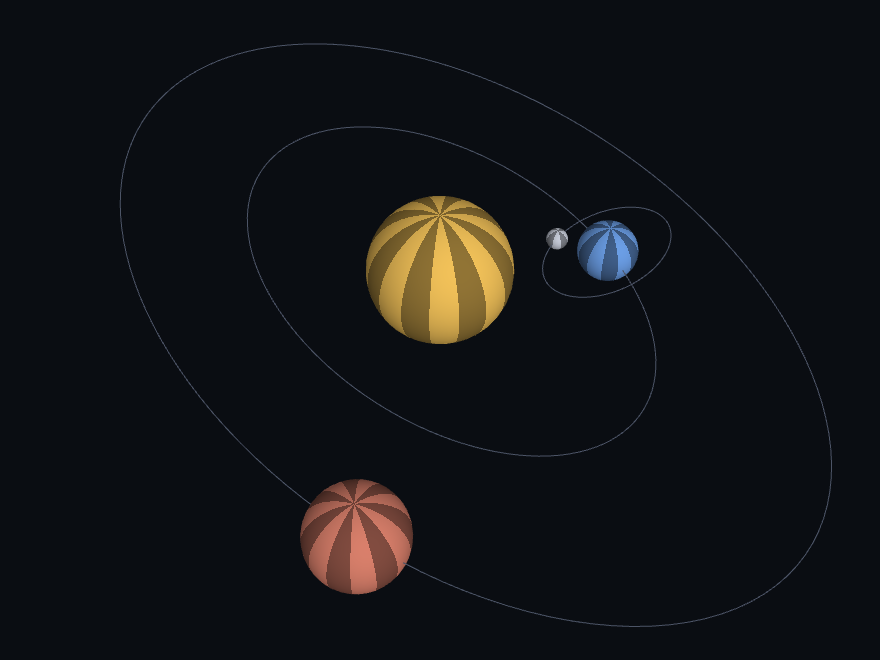
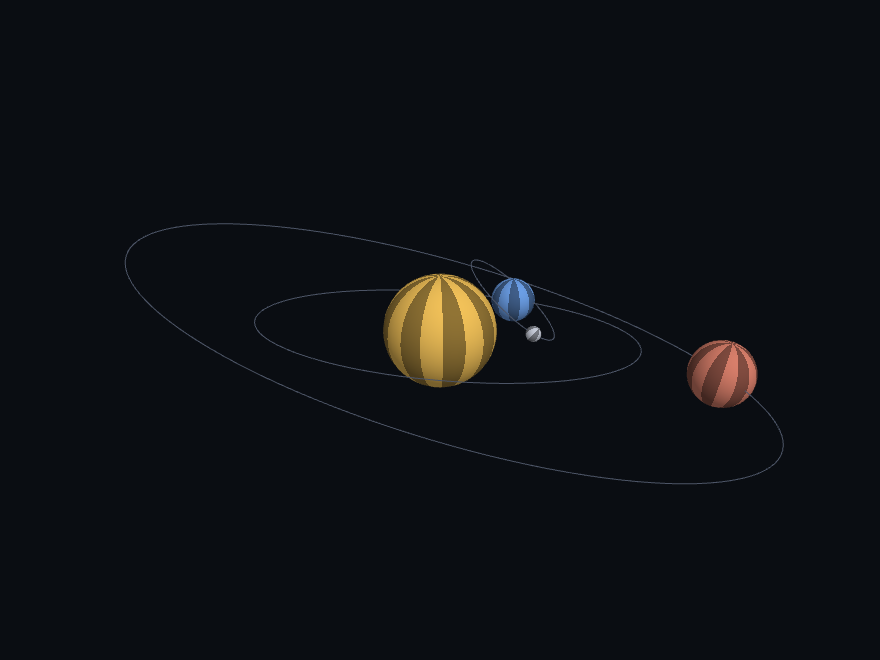
exercise 03 - scene-hierarchy: extended main task and added parent visualization

diff --git a/exercises/04-2-scene-hierarchy/src/hierarchy/index.ts b/exercises/04-2-scene-hierarchy/src/hierarchy/index.ts
@@ -18,6 +18,13 @@ const nodeOptions = { Plattform: "platform", Arm: "arm", Gondel: "gondola" };
 // The local transformation of the chosen node and the four rows of its total transformation.
 const readout = { local: "", row0: "", row1: "", row2: "", row3: "" };
 
+// The scene graph: the parent of each node, and the role of each node relative to the chosen one,
+// shown in the tree in these colours.
+const parents: Record<string, string | null> = { platform: null, arm: "platform", gondola: "arm" };
+const roles: Record<string, string> = { platform: "", arm: "", gondola: "" };
+const nodeRoleColor = [0.95, 0.45, 0.85];
+const parentRoleColor = [0.3, 0.85, 1.0];
+
 // One flat colour per body, and how many stripes per unit length it gets.
 const platformColor = [0.36, 0.45, 0.62];
 const armColor = [0.55, 0.57, 0.62];
@@ -28,6 +35,9 @@ const gondolaStripes = 4.0;
 
 // The camera orbits the origin at a fixed distance; dragging changes the two angles.
 const distance = 7;
+// How far the picture is moved to the left, in clip coordinates, so that the controls at the top
+// right do not cover the scene.
+const shiftLeft = 0.35;
 let azimuth = -65;
 let elevation = 24;
 
@@ -36,6 +46,7 @@ let gui: GUI;
 let platformMesh: renderer.Mesh;
 let armMesh: renderer.Mesh;
 let gondolaMesh: renderer.Mesh;
+const roleFields: Record<string, HTMLInputElement> = {};
 
 export function start(
     element: HTMLCanvasElement,
@@ -60,6 +71,19 @@ export function start(
     gui.add(params, "gondolaAngle", -180, 180, 5).name("Gondel: Drehung");
     gui.add(params, "armOrder", armOrderOptions).name("Verkettung im Arm");
     gui.add(params, "node", nodeOptions).name("Knoten");
+
+    // The scene graph as a tree, each name in the colour of its body.
+    const treeFolder = gui.addFolder("Szenengraph");
+    const tree = [
+        ["platform", "Plattform", platformColor],
+        ["arm", "└ Arm", armColor],
+        ["gondola", "\u2003└ Gondel", gondolaColor],
+    ] as const;
+    for (const [node, label, color] of tree) {
+        const controller = treeFolder.add(roles, node).name(label).disable();
+        controller.$name.style.color = css(color);
+        roleFields[node] = controller.domElement.querySelector("input") as HTMLInputElement;
+    }
     gui.add(readout, "local").name("Lokale Transformation").disable();
 
     const matrixFolder = gui.addFolder("Gesamttransformation");
@@ -140,8 +164,11 @@ function viewProjection(): mat4 {
     mat4.lookAt(view, eye, [0, 0, 0], [0, 0, 1]);
     const projection = mat4.create();
     mat4.perspective(projection, radians(40), canvas.width / canvas.height, 0.1, 100);
+    const shift = mat4.create();
+    mat4.fromTranslation(shift, [-shiftLeft, 0, 0]);
     const product = mat4.create();
     mat4.multiply(product, projection, view);
+    mat4.multiply(product, shift, product);
     return product;
 }
 
@@ -180,7 +207,17 @@ function draw(): void {
     renderer.drawMesh(platformMesh, paths.platform, camera, platformColor, platformStripes);
     renderer.drawMesh(armMesh, paths.arm, camera, armColor, armStripes);
     renderer.drawMesh(gondolaMesh, paths.gondola, camera, gondolaColor, gondolaStripes);
+    showRoles();
     showReadout(total(paths[params.node]));
+}
+
+// The role of every node in the tree: the chosen node and its parent.
+function showRoles(): void {
+    const parent = parents[params.node];
+    for (const node of Object.keys(roles)) {
+        roles[node] = node === params.node ? "gewählt" : node === parent ? "Elternknoten" : "";
+        roleFields[node].style.color = css(node === params.node ? nodeRoleColor : parentRoleColor);
+    }
 }
 
 // The local transformation of the chosen node as a symbol, and its total transformation row by
@@ -210,6 +247,11 @@ function row(matrix: mat4, index: number): string {
 // A number with at most two decimals, e.g. 1.4 or -0.77.
 function format(value: number): string {
     return String(Number(value.toFixed(2)));
+}
+
+// A colour as CSS, e.g. rgb(92 115 158).
+function css(color: readonly number[]): string {
+    return `rgb(${color.map((value) => Math.round(value * 255)).join(" ")})`;
 }
 
 function radians(degrees: number): number {

diff --git a/exercises/04-2-scene-hierarchy/content.md b/exercises/04-2-scene-hierarchy/content.md
@@ -60,7 +60,7 @@ Ergänze `hierarchy.vert` im Editor so, dass `model` die Gesamttransformation de
 
 ## Was ein Knoten mitzieht
 
-Über „Knoten" zeigt die Demo die lokale Transformation und die Gesamttransformation eines der drei Knoten an. Damit lässt sich verfolgen, wie sich eine Änderung an einem Knoten im Produkt niederschlägt.
+Über „Knoten" zeigt die Demo die lokale Transformation und die Gesamttransformation eines der drei Knoten an. Damit lässt sich verfolgen, wie sich eine Änderung an einem Knoten im Produkt niederschlägt. „Szenengraph" zeigt den Baum der drei Knoten und markiert den gewählten Knoten und seinen Elternknoten.
 
 \begin{task}[Mitbewegen und Reihenfolge]
 
@@ -75,7 +75,7 @@ Ergänze `hierarchy.vert` im Editor so, dass `model` die Gesamttransformation de
 \begin{task}[Eigenes Sonnensystem]
 Schreibe ein Programm, das ein Sonnensystem aus mehreren Körpern zeigt, die über eine Hierarchie lokaler Transformationen angeordnet sind. Mindestens ein Körper soll einen Körper umkreisen, der selbst einen anderen umkreist, also Sonne, Planet und Mond. Rufe deinen Code aus \vscode{src/solution/index.ts}[start] auf; das Ergebnis erscheint in der Demo unter dieser Aufgabe.
 
-Jeder Körper dreht sich außerdem um seine eigene Achse, die Bahnen sind Ellipsen, und die Körper sind so eingefärbt, dass ihre Eigendrehung zu sehen ist. Die Szene läuft über eine Zeit, die sich einstellen und anhalten lässt.
+Jeder Körper dreht sich außerdem um seine eigene Achse, die Bahnen sind Ellipsen, mindestens eine Bahn ist gegen die anderen geneigt, und die Körper sind so eingefärbt, dass ihre Eigendrehung zu sehen ist. Die Szene läuft über eine Zeit, die sich einstellen und anhalten lässt.
 
 Dafür brauchst du aus Kapitel 4 die Transformationskomposition, die hierarchischen Koordinatensysteme und die Model-Transformation als `uniform`.
 

diff --git a/exercises/04-3-rotation-interpolation/content.md b/exercises/04-3-rotation-interpolation/content.md
@@ -175,7 +175,7 @@ Dafür brauchst du aus Kapitel 4 die Eulerwinkel in der Reihenfolge Z-Y-X, die Q
 \demo{solution}
 
 \begin{task}[Mehr Wege (optional)]
-Probiere weitere Varianten aus. Ideen: ein Weg über drei oder mehr Orientierungen, eine normierte lineare Interpolation der Quaternionen im Vergleich mit Slerp, eine andere Reihenfolge der Eulerwinkel, oder Achse und Winkel der Drehung, die aus deinem Ergebnis wieder abgelesen werden.
+Probiere weitere Varianten aus. Ideen: eine normierte lineare Interpolation der Quaternionen im Vergleich mit Slerp, eine andere Reihenfolge der Eulerwinkel, oder Achse und Winkel der Drehung, die aus deinem Ergebnis wieder abgelesen werden.
 \end{task}
 
 \begin{summary}
